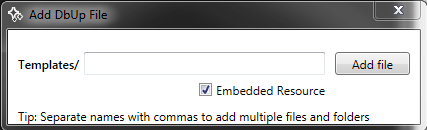
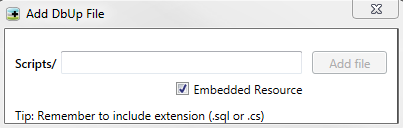
Updated readme and minor ui tweaks

diff --git a/src/FileNameDialog.xaml b/src/FileNameDialog.xaml
@@ -15,7 +15,7 @@
 
         <Label Grid.Row="0" Grid.Column="0" Name="lblFolder" Content="Folder name:" HorizontalAlignment="Left" Margin="5 0 0 0" VerticalAlignment="Center" Height="26" FontWeight="SemiBold" />
         <TextBox Grid.Row="0" Grid.Column="1" Name="txtName" VerticalContentAlignment="Center" Height="23" TextWrapping="Wrap" VerticalAlignment="Center" HorizontalAlignment="Stretch" MinWidth="210" TextChanged="txtName_TextChanged" KeyDown="txtName_KeyDown" />
-        <Button Grid.Row="0" Grid.Column="2" Content="Add file" HorizontalAlignment="Center" Margin="10,0" VerticalAlignment="Center" Width="75" Height="23" IsDefault="True" Name="btnCreate" Click="Button_Click" />
+        <Button Grid.Row="0" Grid.Column="2" Content="Add file" HorizontalAlignment="Center" Margin="10,0" VerticalAlignment="Center" Width="75" Height="23" IsDefault="True" Name="btnCreate" Click="Button_Click" IsEnabled="False" />
         <CheckBox Grid.Row="0" Grid.Column="1" Name="ckEmbeddedResource" Content="Embedded Resource" HorizontalAlignment="Left" Margin="115,52,0,0" VerticalAlignment="Bottom" IsChecked="True" />
         <Label Grid.Row="1" Grid.Column="0" Grid.ColumnSpan="3" Name="lblTips" Content="Tips" HorizontalAlignment="Left" Margin="5" VerticalAlignment="Center" Height="26" />
 

diff --git a/src/FileNameDialog.xaml.cs b/src/FileNameDialog.xaml.cs
@@ -12,7 +12,7 @@ namespace KennethScott.AddDbUpFile
     {
         private const string DEFAULT_TEXT = "Enter a file name";
         private static List<string> _tips = new List<string> {
-            "Tip: Separate names with commas to add multiple files and folders" 
+            "Tip: Remember to include extension (.sql or .cs)" 
         };
 
         public FileNameDialog(string folder)
@@ -44,8 +44,13 @@ namespace KennethScott.AddDbUpFile
                     else if (txtName.Text == DEFAULT_TEXT)
                     {
                         txtName.Text = string.Empty;
-                        btnCreate.IsEnabled = true;
                     }
+                };
+
+                txtName.PreviewMouseDown += (a, b) =>
+                {
+                    if (txtName.Text == DEFAULT_TEXT)
+                        txtName.Text = string.Empty;
                 };
             };
         }
@@ -122,6 +127,8 @@ namespace KennethScott.AddDbUpFile
                 ckEmbeddedResource.IsChecked = false;
 
             txtName.CaretIndex = txtName.Text.Length;
+
+            btnCreate.IsEnabled = (txtName.Name.EndsWith(".cs") || txtName.Text.EndsWith(".sql"));
         }
 
         private string Reverse(string s)

diff --git a/README.md b/README.md
@@ -2,18 +2,16 @@
 
 
 Shamelessly tweaked and stripped down version of Mads Kristensen's excellent AddAnyFile extension. It has one simple purpose - to provide a way 
-for easily adding new dbup sql files to any project. Simply hit Shift+F2 to create an empty script file in the selected folder or in the same folder 
+for easily adding new dbup sql and cs files to any project. Simply hit Shift+F2 to create an empty script file in the selected folder or in the same folder 
 as the selected file.  
 
 See the [changelog](CHANGELOG.md) for updates and roadmap.
 
 ### Features
 
-- Files are automatically prefixed with ccyymmdd_hhmmss_
-- Create deeper folder structures easily if required
-- Create folders when the entered name ends with a /
+- Filenames are automatically prefixed with ccyymmdd_hhmmss_ and restricted to one period
 - Marks new sql files as embedded resources (but not cs files)
-- Sql and cs templates relevant to dbup 
+- Sql and cs templates relevant to dbup
 
 ![Add new file dialog](art/dialog.png)
 
